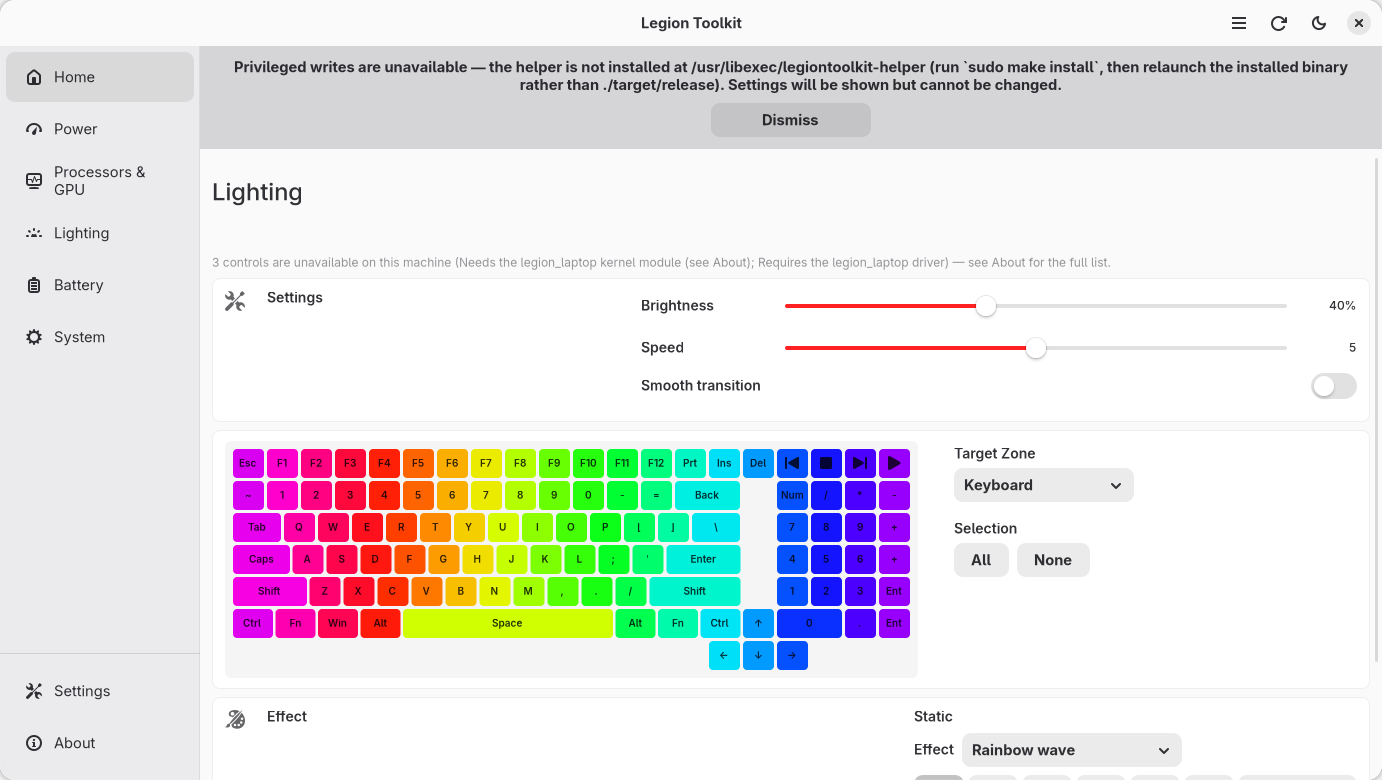
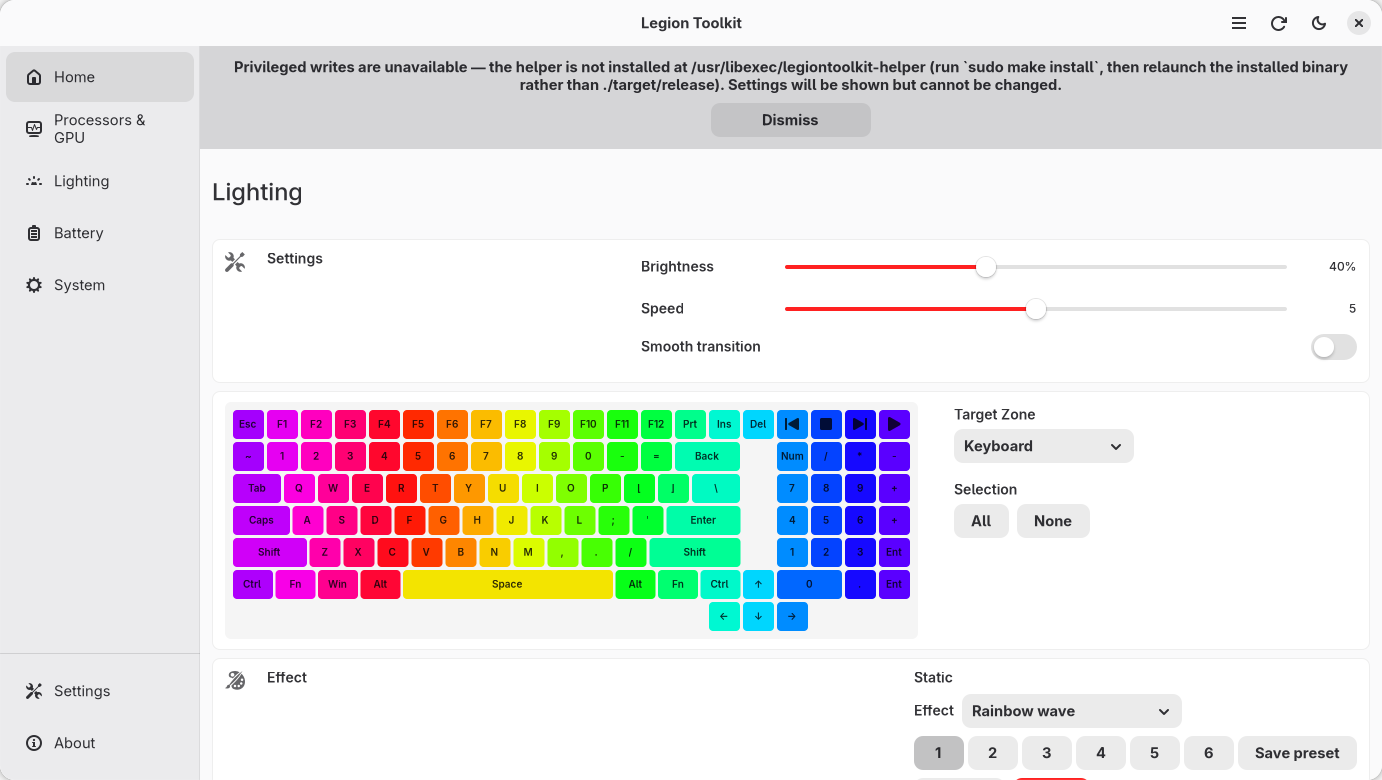
feat(ui): drop the per-section unavailable notes, align the sensor cards, and remove the Power page
Sections no longer carry a 'N controls are unavailable on this machine' note.
The full list is on the About page, and repeating it on every section was noise;
a section with nothing at all still says so.

Home: a blank row in the Memory card lines its Disk section up with the Battery
section in the Motherboard card, so the two combined cards read as a set.

The Power page is gone. Its only controls are powermode and fan_fullspeed, both
already drawn in the Home Power section, so nothing is lost; its Custom Presets
card moves to Home, beside the mode and limits it captures.

diff --git a/src/pages/mod.rs b/src/pages/mod.rs
@@ -263,26 +263,9 @@ impl CapabilityPage {
             }
         }
 
-        if !unavailable.is_empty() {
-            let reasons: std::collections::BTreeSet<&str> = unavailable
-                .iter()
-                .filter_map(|c| c.unavailable_reason)
-                .collect();
-            let note = Label::new(Some(&format!(
-                "{} control{} unavailable on this machine ({}) — see About for the full list.",
-                unavailable.len(),
-                if unavailable.len() == 1 {
-                    " is"
-                } else {
-                    "s are"
-                },
-                reasons.into_iter().collect::<Vec<_>>().join("; ")
-            )));
-            note.add_css_class("llt-page-footnote");
-            note.set_halign(Align::Start);
-            note.set_wrap(true);
-            self.page.append(&note);
-        }
+        // What is missing is not spelled out on the page: the full list lives
+        // on the About page, and a footnote on every section was noise. Only a
+        // page with nothing at all still says so.
 
         // A page with nothing on it should say so rather than look broken.
         if self.cards.borrow().is_empty() && unavailable.is_empty() {
@@ -342,7 +325,6 @@ pub struct Pages {
     /// The landing page: readings and controls together.
     pub home: CapabilityPage,
     pub battery: BatteryPage,
-    pub power: CapabilityPage,
     pub processors: CapabilityPage,
     pub lighting: CapabilityPage,
     pub system: CapabilityPage,
@@ -400,20 +382,15 @@ impl Pages {
                             )
                         }),
                     ),
-                ]),
+                ])
+                .with_extra(|page, caps| {
+                    // Named power presets. They used to live on the Power page,
+                    // which is gone; they belong here, beside the power mode and
+                    // limits the Home sections control.
+                    let card = presets_section(Rc::clone(caps));
+                    page.append(card.widget());
+                }),
             battery: BatteryPage::new(),
-            power: CapabilityPage::new(
-                |page| {
-                    page.heading("Power");
-                },
-                Rc::clone(&caps),
-            )
-            .with_extra(|page, caps| {
-                // The presets editor belongs on the Power page, next to the
-                // limits it stores.
-                let card = presets_section(Rc::clone(caps));
-                page.append(card.widget());
-            }),
             // The Processors page is the controls only, grouped. The telemetry
             // (temperatures, clocks, utilization) lives in the Home sensor row;
             // repeating it here is exactly the duplication to avoid.
@@ -471,10 +448,6 @@ impl Pages {
         self.home.rebuild(|_| true);
         // Group pages show controls only. The read-only telemetry belongs in
         // the Home sensor row, not repeated as a card on every page.
-        self.power.rebuild(|c| {
-            c.group == legiontoolkit::capability::Group::Power
-                && !matches!(c.kind, legiontoolkit::capability::Kind::ReadOnly)
-        });
         // The Processors page renders sections, so its filter is unused.
         self.processors.rebuild(|_| false);
         self.lighting.rebuild(|c| {
@@ -503,8 +476,8 @@ impl Pages {
     /// Tick the values on the page that is actually on screen.
     ///
     /// Every capability read is a file open, a read and a parse, and the
-    /// application has around fifty of them across eight pages. Refreshing all
-    /// eight every second did all of that work for seven pages nobody was
+    /// application has around fifty of them across seven pages. Refreshing all
+    /// seven every second did all of that work for six pages nobody was
     /// looking at — including five GPU cache locks — which is exactly the kind
     /// of background churn that costs a laptop its battery.
     ///
@@ -513,7 +486,6 @@ impl Pages {
     pub fn refresh(&self) {
         self.home.refresh_if_mapped();
         self.battery.refresh_if_mapped();
-        self.power.refresh_if_mapped();
         self.processors.refresh_if_mapped();
         self.lighting.refresh_if_mapped();
         self.system.refresh_if_mapped();
@@ -525,7 +497,6 @@ impl Pages {
     pub fn stack_pages(&self) -> Vec<(&'static str, &ScrolledWindow, &'static str)> {
         vec![
             ("home", self.home.widget(), "Home"),
-            ("power", self.power.widget(), "Power"),
             ("processors", self.processors.widget(), "Processors & GPU"),
             ("lighting", self.lighting.widget(), "Lighting"),
             ("battery", self.battery.widget(), "Battery"),
@@ -636,6 +607,9 @@ fn append_sensor_grid(page: &mut Page, out: &ThermalGrid) {
             ),
             (storage.add_row("Swap", "%", 0, 100.0), "swap_utilization"),
         ];
+        // A blank row keeps the Disk section on the same line as the Battery
+        // section in the Motherboard card, which has three rows above it.
+        storage.blank_row();
         storage.divider();
         storage.subheading("Disk");
         storage_rows.push((storage.add_row("Usage", "%", 0, 100.0), "disk_usage"));

diff --git a/src/design/sensor_card.rs b/src/design/sensor_card.rs
@@ -185,4 +185,19 @@ impl SensorCard {
         label.set_margin_top(2);
         self.root.append(&label);
     }
+
+    /// A blank, row-height gap.
+    ///
+    /// Used so the section dividers in two combined cards (Motherboard+Battery
+    /// and Memory+Disk) land on the same line: without it the shorter card's
+    /// second section sits higher, and the two cards stop reading as a set. It
+    /// carries no row index, so it does not disturb the readings.
+    pub fn blank_row(&mut self) {
+        let row = Grid::new();
+        row.set_column_spacing(8);
+        let label = Label::new(Some(" "));
+        label.add_css_class("llt-sensor-label");
+        row.attach(&label, 0, 0, 1, 1);
+        self.root.append(&row);
+    }
 }

diff --git a/src/window.rs b/src/window.rs
@@ -20,9 +20,8 @@ use crate::pages::Pages;
 use legiontoolkit::backends::{Backend, MockBackend, SysfsBackend};
 
 /// Main sidebar entries, in the order the reference uses.
-const MAIN_NAV: [(&str, &str, &str); 6] = [
+const MAIN_NAV: [(&str, &str, &str); 5] = [
     ("go-home-symbolic", "Home", "home"),
-    ("power-profile-performance-symbolic", "Power", "power"),
     (
         "org.gnome.Settings-device-diagnostics-symbolic",
         "Processors & GPU",
